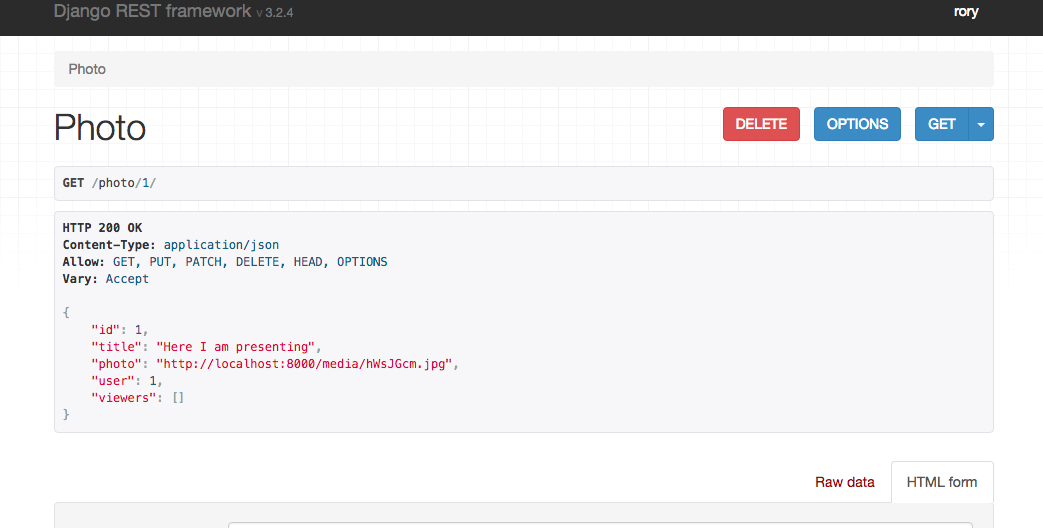
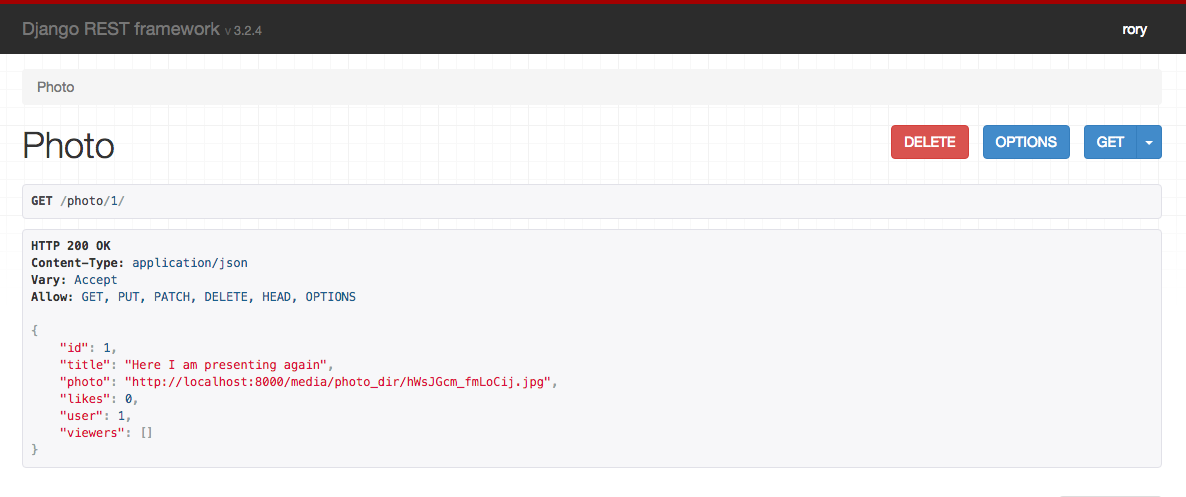
'like' field from master

diff --git a/index.html b/index.html
@@ -143,7 +143,7 @@
         </section>
         <section>
           <h2>Our Photo Model</h2>
-          <pre><code class='python'>class Photo(models.Model):&#x000A;    title = models.CharField()&#x000A;    photo = models.FileField()&#x000A;    user = models.ForeignKey('PhotoUser')&#x000A;    viewers = models.ManyToManyField(&#x000A;        'PhotoUser', related_name='can_view', blank=True&#x000A;    )&#x000A;</code></pre>
+          <pre><code class='python'>class Photo(models.Model):&#x000A;    title = models.CharField()&#x000A;    photo = models.FileField()&#x000A;    user = models.ForeignKey('PhotoUser')&#x000A;    viewers = models.ManyToManyField(&#x000A;        'PhotoUser', related_name='can_view', blank=True&#x000A;    )&#x000A;    likes = models.IntegerField()&#x000A;</code></pre>
         </section>
         <section>
           <h2>The Views</h2>
